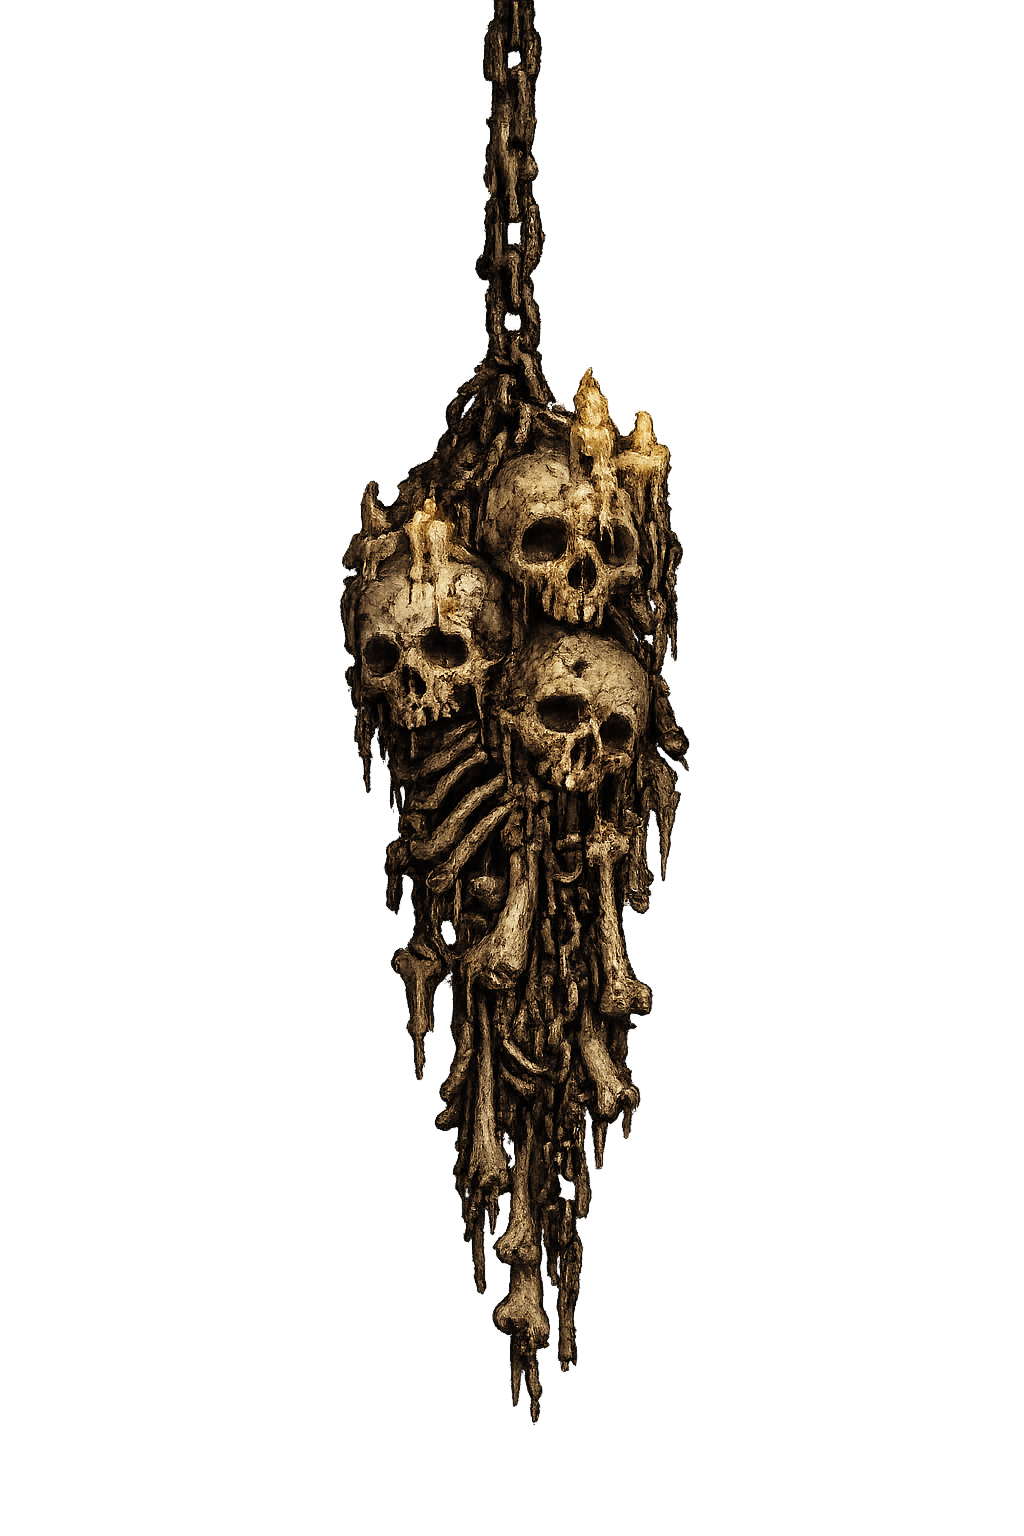
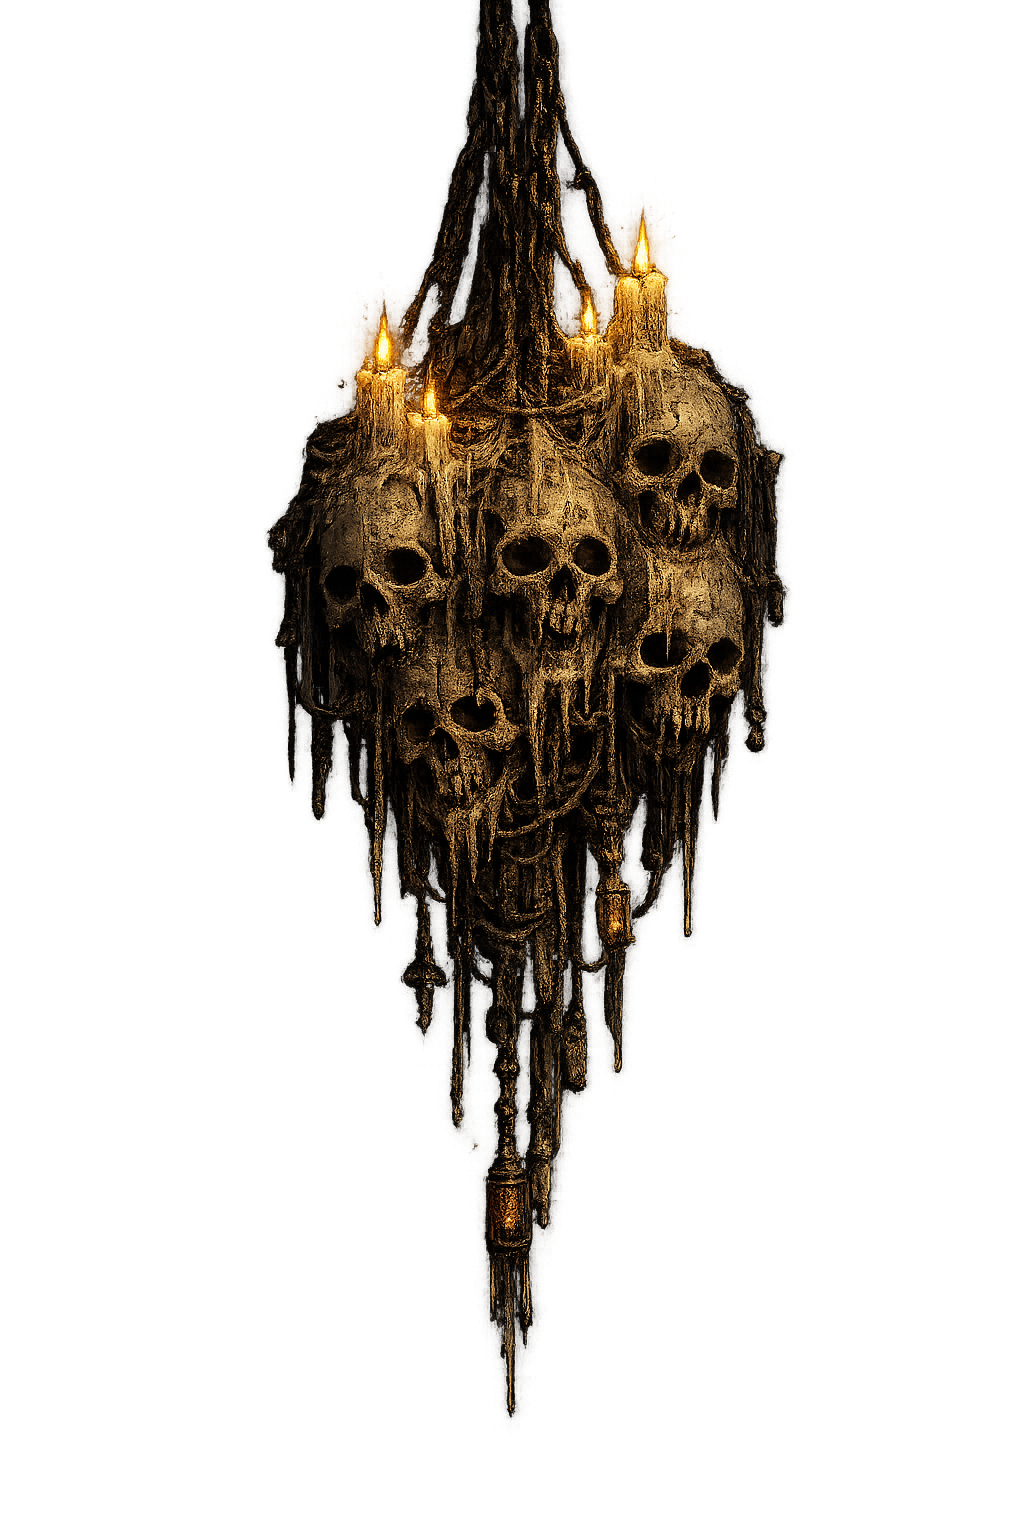
The ossuary repaint: five plates replaced, two slots opened, three tiles held back
Ten paintings arrived. Seven are runtime plates and three are not, and
which is which is the only interesting decision in the change.

Replaced in place (public/assets/visual/regions/ossuary/), same ids, same
declared sizes, so every placement that already pointed at them points at
the new art with no code moving:
- niche-skulls, pillar-skulls, archway-skulls, hanging-skull-cluster
- skull-pile-candles

New slots, registered and deliberately unplaced:
- ossuary.shrine   1024x1536  a built reliquary with a skull set in it
- ossuary.gate     1024x1536  a barred crypt door, composed as a whole 2:3
  scene the way ossuary.hall is, so it wants a cover anchor and not a
  world coordinate

Neither is dressing. art. 104 says one hero per room and that two things
competing to be the one thing leaves the room with none, so scattering
either through the kit is the way to spend them for nothing. The gate in
particular is a threshold the game already has a candidate for -- the
Warden's door (art. 37) -- and which room it stands in is a fight's worth
of design, not a placement.

Held back from public/ entirely, into reference/visual/ossuary/:
- wall-tile, floor-tile, ceiling-tile   1254 square, seamless

These are the ones that must not just be installed. The compositor has
three anchor spaces -- world, cover, frame -- and every one resolves a
plate to an axis-aligned screen rectangle; none shears a raster onto a
receding plane. A wall tile pushed through SceneArt.overlays is a picture
[…]

Changed region(s): [[0.25, 0.0, 0.7812, 0.9375]]

diff --git a/src/content/visual/assets.ts b/src/content/visual/assets.ts
@@ -181,11 +181,25 @@ export const PLATES: AssetManifest = {
     1536,
     'ossuary',
   ),
+  /**
+   * **The heap, and its canvas is its content.** The painting that replaced
+   * the first one is a taller thing — the heap now carries a stack of candles
+   * rising out of it — and it arrived on a portrait canvas with a third of its
+   * height empty. A frame anchor pins the *canvas* and derives the height from
+   * the master's own aspect (`frameRect`), so dead margin is not neutral: it
+   * is a plate whose declared bottom edge is not where the thing's bottom edge
+   * is, and an anchor that says `bottom-center` then means something else.
+   *
+   * So this one master is trimmed to its alpha bounding box on the way in and
+   * declared at that size. Nothing about the art is touched — the crop is the
+   * transparent border and only the transparent border — and afterwards the
+   * anchor in `rooms.ts` means what it says.
+   */
   'ossuary.skull-pile': plate(
     'ossuary.skull-pile',
     'regions/ossuary/skull-pile-candles.png',
-    1536,
     1024,
+    808,
     'ossuary',
   ),
   'ossuary.candle-ledge': plate(
@@ -195,6 +209,35 @@ export const PLATES: AssetManifest = {
     1024,
     'ossuary',
   ),
+
+  /**
+   * **The shrine, and it is not dressing.** A niche is a piece of wall and a
+   * pillar is a piece of architecture; this is a built thing with a skull set
+   * in it and five candles burning on it, and at the density it is painted at
+   * it wins any frame it is put in. So it is registered and **not placed**:
+   * art. 104 says one hero per room and *if two things compete to be the one
+   * thing, the room has none*, which makes it the wrong piece to scatter
+   * through the kit and the right piece to build a room around.
+   *
+   * It is here rather than waiting on disk because a declared slot is what
+   * lets the room that wants it be a placement rather than an art request.
+   */
+  'ossuary.shrine': plate('ossuary.shrine', 'regions/ossuary/shrine.png', 1024, 1536, 'ossuary'),
+
+  /**
+   * **The barred gate, and it is a whole scene rather than a cut-out.** Like
+   * `ossuary.hall` it is opaque and composed to a 2:3 frame — floor, jambs,
+   * far darkness and all — so it belongs on the material band under a `cover`
+   * anchor, and it is the wrong shape for a world coordinate: a room's own
+   * cast would be standing behind a picture of a different room's walls.
+   *
+   * Also unplaced, and for a stronger reason than the shrine's. A gate that a
+   * player meets in an ordinary corridor is scenery; the one this was painted
+   * for is a threshold that means something — the Warden's door is the
+   * candidate art. 37 already names — and which room it stands in is a design
+   * decision with a fight behind it, not a dressing choice.
+   */
+  'ossuary.gate': plate('ossuary.gate', 'regions/ossuary/gate.png', 1024, 1536, 'ossuary'),
 
   /**
    * **The carved reliquary the interface sits in.** Its aspect is what sets

diff --git a/src/content/visual/rooms.ts b/src/content/visual/rooms.ts
@@ -140,10 +140,39 @@ const DRESSED: Readonly<Record<string, SceneArt>> = {
         layer: Layer.Distant,
         anchor: { space: 'frame', x: 0.22, y: 0.055, origin: 'top-center', width: 0.27 },
       },
+      /**
+       * **The heap, raised off the frame's bottom edge, because that edge is
+       * behind the tray.** It stood at `y: 1.0` and had never once been seen:
+       * art. 29 anchors the reliquary over the lower edge of the frame, and on
+       * a 390 × 844 phone the tray owns from 0.752 down, so a thing standing
+       * on the frame's floor stands under the picture. It was drawn every
+       * frame and occluded every frame — found by looking, which is the only
+       * way this one could have been found.
+       *
+       * So it stands on the tray's own top edge instead, which is where the
+       * visible frame actually ends, and it is sized to sit in the bottom
+       * corner rather than to fill it: the Marrow takes the middle when it
+       * arrives, and art. 104 is emphatic that two things competing to be the
+       * one thing leaves the room with none.
+       *
+       * The master is the trimmed one (`assets.ts`), so `bottom-center` means
+       * the base of the heap and not the base of a canvas.
+       */
+      /**
+       * art. 127: **and it moves off the foreground band onto the distant
+       * one.** The Marrow arrives centred at 0.7 of the lens, which spans
+       * 0.15 to 0.85 — there is no width at which a heap this size and the
+       * arrived thing do not overlap, so the only question is which of them
+       * is in front, and a thing that has come *closer than the room* cannot
+       * be behind something lying on the room's floor (art. 30). Foreground
+       * is for what is nearer than the hero; this is not. Standing off, the
+       * Marrow's feet clip the heap's crest by a few pixels, which is the
+       * cheaper of the two errors by a wide margin.
+       */
       {
         asset: 'ossuary.skull-pile',
-        layer: Layer.Foreground,
-        anchor: { space: 'frame', x: 0.42, y: 1.0, origin: 'bottom-center', width: 0.74 },
+        layer: Layer.Distant,
+        anchor: { space: 'frame', x: 0.66, y: 0.765, origin: 'bottom-center', width: 0.44 },
       },
     ],
     // art. 107: one loop, and it is the candle on the right-hand sconce. Its

diff --git a/reference/visual/README.md b/reference/visual/README.md
@@ -44,6 +44,36 @@ They are also the density bar for the **third tier** (art. 26's hero
 moments, and the CINE band): what a horror plate should eventually look
 like when the art budget reaches it. `DESIGN.md` lists what is still owed.
 
+## `ossuary/` — the three surface tiles, and why they are not plates
+
+`wall-tile.png`, `floor-tile.png`, `ceiling-tile.png`: seamless 1254² gothic
+ossuary material — small blocks, deep seams, bone set into the masonry, wax
+and soot and damp, a vaulted ribbed ceiling, flagstones with bone in the
+joints. They arrived in the same delivery as the dressing kit and they are
+**deliberately not in `public/`**.
+
+The reason is that the compositor has exactly three anchor spaces — `world`,
+`cover` and `frame` (`src/visual/scene.ts`) — and every one of them resolves a
+plate to an **axis-aligned screen rectangle**. A world anchor scales by 1/z,
+which is honest for a thing standing in the room; none of them shears a raster
+onto a receding plane. So a wall tile pushed through `SceneArt.overlays` is a
+picture of a wall pasted over the wall, running flat across the frame while
+the box behind it recedes — which is the flat-crest defect art. 102 named
+about masses, said one level up about materials. It would look better in a
+screenshot and worse in motion, and it would cost the one thing the renderer
+is for.
+
+What they are for is **art direction on `masonry()`** — `src/content/plates/`,
+where a surface's grammar is authored in world coordinates and therefore
+recedes correctly: unit size, seam depth, defect, inclusion and the gradient
+art. 98 calls the knob that matters most. Read the tiles for that grammar and
+re-author the shader; the perspective stays computed and the density arrives
+in the material (arts 15, 98, 126).
+
+Making them loadable would need a fourth anchor space that maps a raster onto
+a surface plane in the cast, which is a renderer amendment and not a
+placement.
+
 ## Nothing here is copied
 
 The visual language is Castlebrynth's own. These images set a bar for

diff --git a/reference/visual/ASSET_BRIEF.md b/reference/visual/ASSET_BRIEF.md
@@ -2,7 +2,15 @@
 
 > **Delivered so far** (the ossuary art pass): the hall, the reliquary frame,
 > the ritual knife, and a seven-piece ossuary dressing kit — wall, niche,
-> pillar, archway, hanging cluster, skull pile, candle ledge. **Still owed:**
+> pillar, archway, hanging cluster, skull pile, candle ledge. **Repainted since**
+> (the ossuary repaint): niche, pillar, archway, hanging cluster and skull pile
+> came back denser and warmer and replaced their originals in place; the wall
+> and the ledge were not in that delivery and stand as first painted. Two new
+> slots came with it — `ossuary.shrine`, a built reliquary with a skull set in
+> it, and `ossuary.gate`, a barred crypt door composed as a whole 2:3 scene the
+> way `ossuary.hall` is. Both are registered and **neither is placed**: one is
+> a hero and the other is a threshold, and where each stands is a design
+> decision rather than a dressing choice (arts 37, 104). **Still owed:**
 > the Marrow hero plate, the six bone die faces, the iron trinket die, and the
 > three candle-flame patch frames. Their slots are declared and flagged
 > `awaiting`; until they land the game falls back, and the Marrow is drawn as
